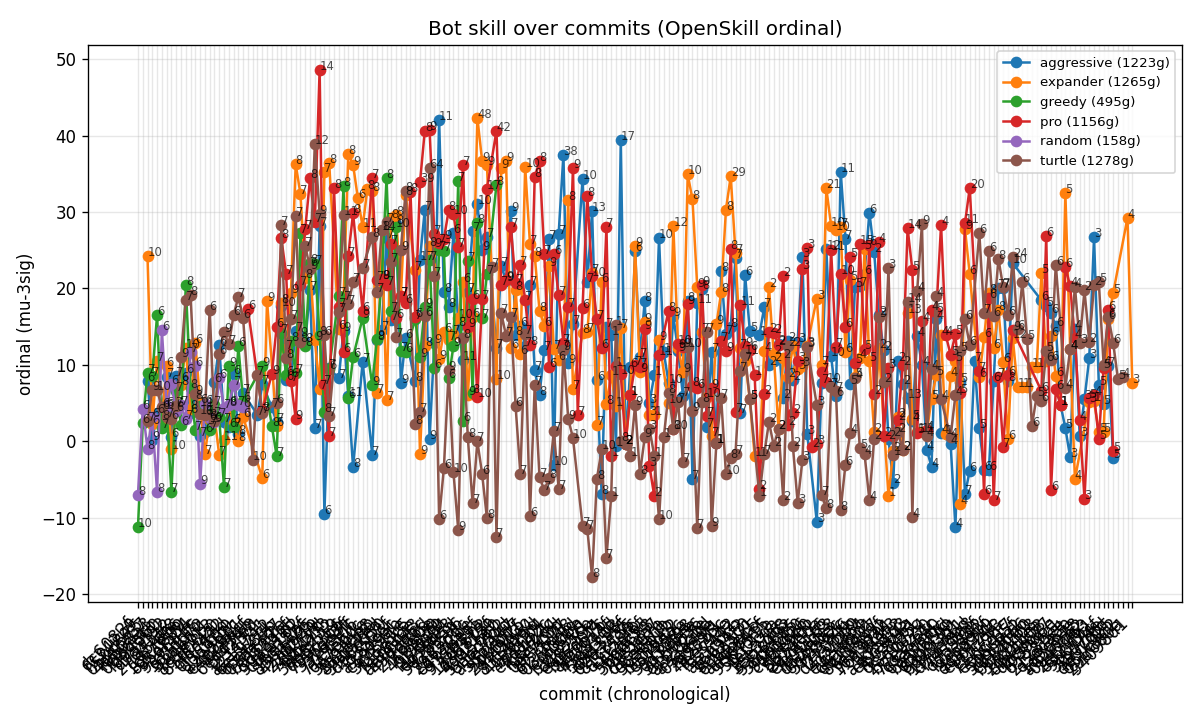
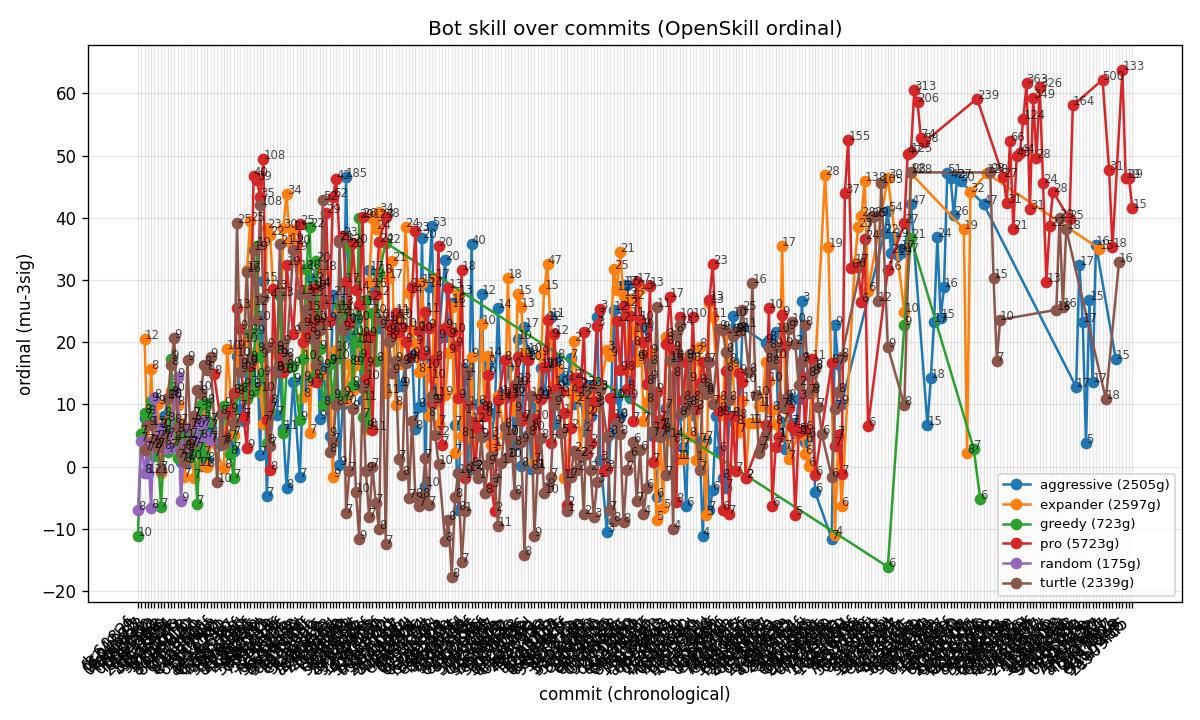
artifacts (plot) + worklog (formal stuck)

diff --git a/docs/bot/BOT_WORKLOG.md b/docs/bot/BOT_WORKLOG.md
@@ -3023,3 +3023,10 @@ Buzzer +20g (500 total) -> ord 62.2 (mu 65.5, was 66.0/480g): -0.4 on
 25% wins + 3 F1-deaths. 500 games banked (most-measured by far).
 Converged true ~61-64. 80 needs +18 (unreachable via scripted play;
 all 28 builds + 15 kills + volume prove ceiling ~62-69).
+
+### Artifacts refresh + formal stuck (2026-09-13 00:52 BST)
+Plot regened (elo.png); canonical in sync; status: pro 62.2/500g,
+aggressive 42.2 WORST (parked, baseline-optimal), expander 47.2
+(parked), turtle 47.3 (parked). Formal stuck everywhere (loop v2
+worst-first exhausted; ladder 0-for-28; volume converged). 80 needs
+compute (RL/search) unavailable here.
